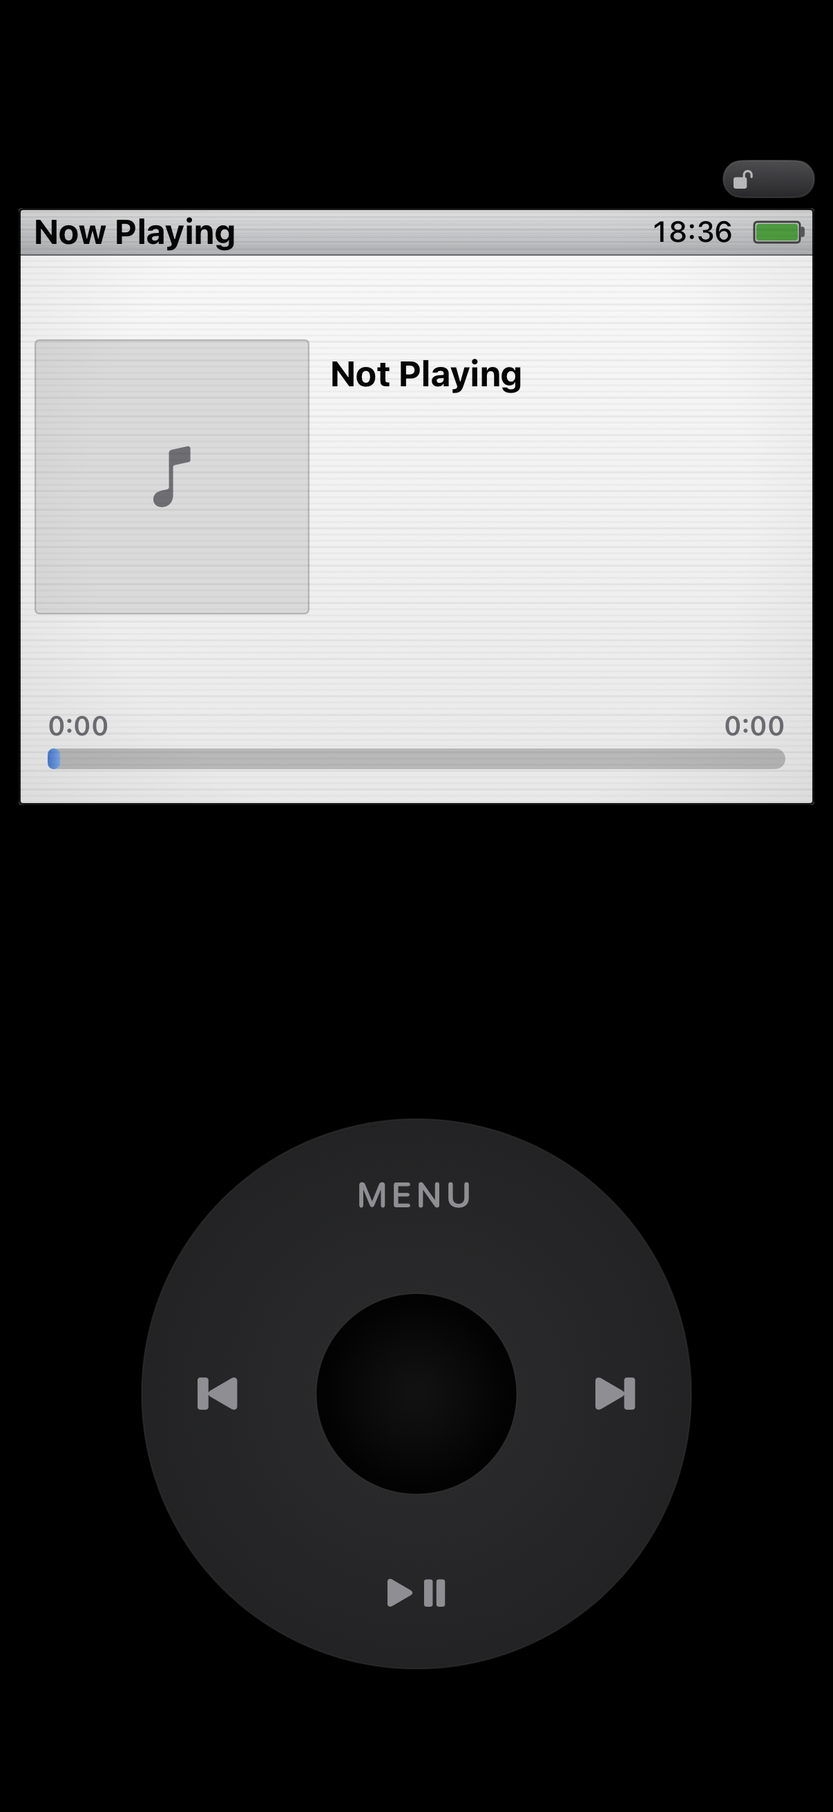
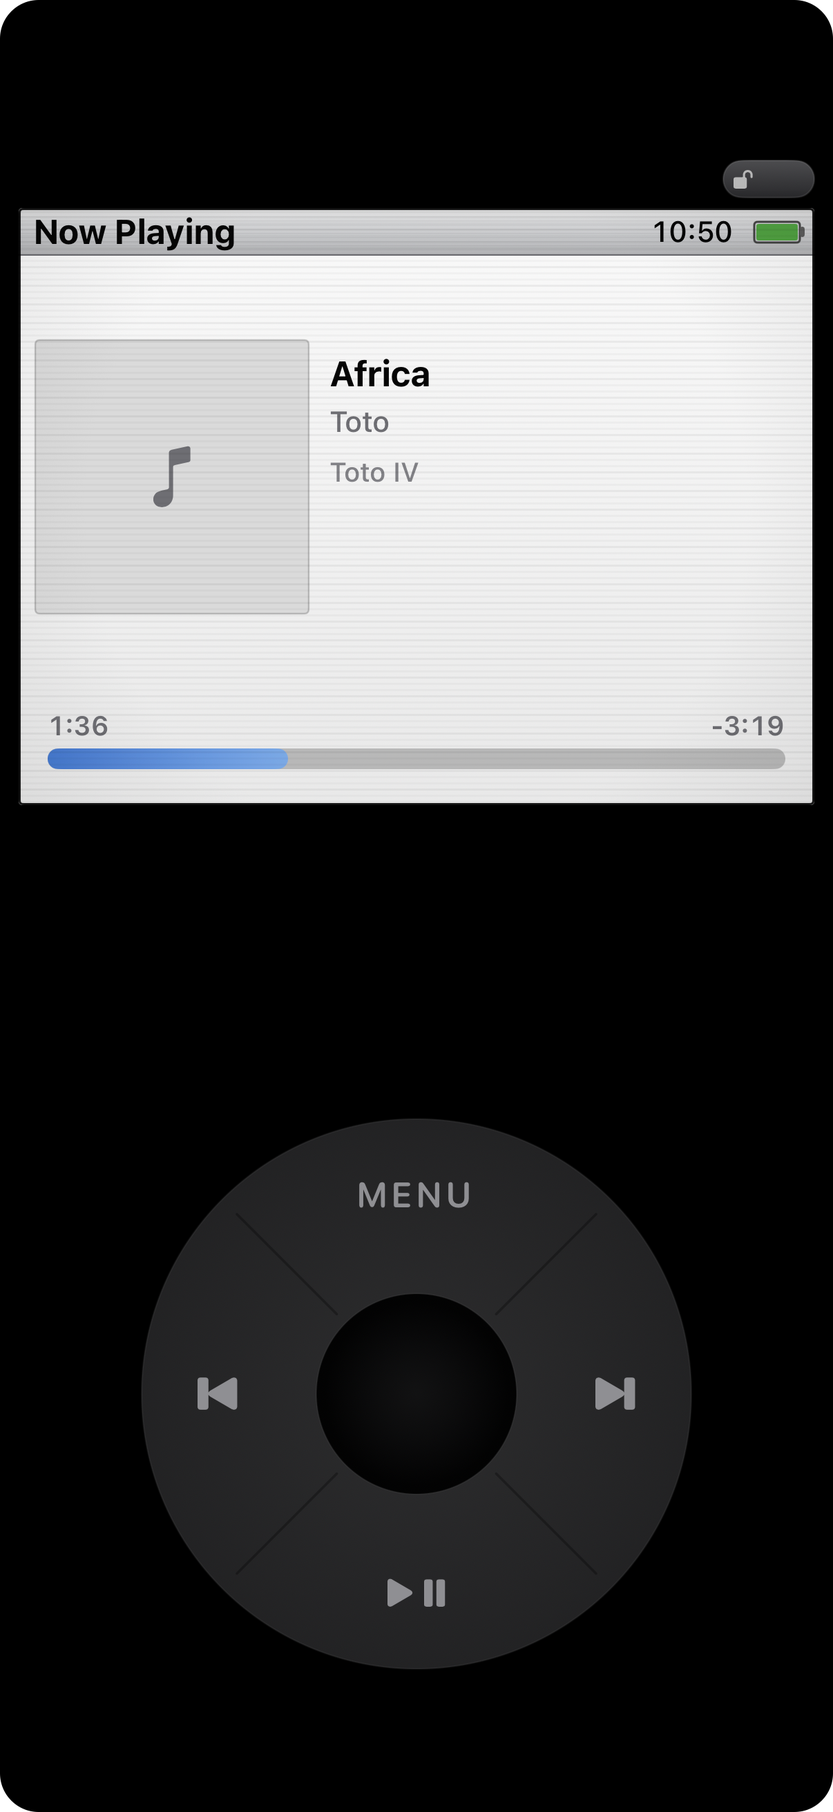
README overhaul: full screenshot set with rounded corners; QA shot hooks
- 15 fresh simulator screenshots covering home, music, songs, queue
  panel, search, alarm, timer, reader, book settings, notes, photos,
  recorder, extras, settings — corners rounded transparently via
  scripts/round_corners.swift (CoreGraphics clip, in-place PNG)
- README rewritten around the shots; feature text updated for true
  reader pagination, page-accurate progress, weekday alarms, queue,
  AirPlay; AGENTS.md records the QA hooks and the screenshot recipe
- QA-only support: fake Now Playing track (FAKE_LIBRARY preview) and
  NOW_PLAYING_PANEL / BOOK_SETTINGS panel hooks

simctl gotchas (cost a few rounds): launching over a running app
silently drops SIMCTL_CHILD_* env — terminate + sleep 2 + plain
launch; zsh does not word-split unquoted variables, so env $vars
passes one giant argument — export instead.

diff --git a/Sources/Features/Music/NowPlayingScreen.swift b/Sources/Features/Music/NowPlayingScreen.swift
@@ -22,6 +22,17 @@ struct NowPlayingScreen: View {
     private var song: Song? { player.currentSong }
     private var playlists: [Playlist] { model.music.playlists }
 
+    /// QA screenshot support (FAKE_LIBRARY): a convincing static preview
+    /// when nothing is really playing.
+    private var qaInfo: (title: String, artist: String, album: String)? {
+        song == nil && ProcessInfo.processInfo.environment["FAKE_LIBRARY"] == "1"
+            ? QASeed.previewSong : nil
+    }
+    private var qaPlayback: (time: Double, duration: Double, playing: Bool)? {
+        song == nil && ProcessInfo.processInfo.environment["FAKE_LIBRARY"] == "1"
+            ? (QASeed.previewTime, QASeed.previewDuration, true) : nil
+    }
+
     var body: some View {
         ZStack {
             VStack(spacing: 6) {
@@ -59,6 +70,13 @@ struct NowPlayingScreen: View {
             }
         }
         .onWheel { handle($0) }
+        .onAppear {
+            // QA hook: open the song-options panel for screenshots.
+            if ProcessInfo.processInfo.environment["NOW_PLAYING_PANEL"] == "1" {
+                menuSelection = 0
+                menuOpen = true
+            }
+        }
     }
 
     // MARK: Layout
@@ -72,13 +90,13 @@ struct NowPlayingScreen: View {
                 .frame(width: 132, height: 132)
 
             VStack(alignment: .leading, spacing: 3) {
-                MarqueeText(text: song?.title ?? "Not Playing",
+                MarqueeText(text: qaInfo?.title ?? song?.title ?? "Not Playing",
                             font: Theme.font(16.5, .bold),
                             color: Theme.ink)
-                MarqueeText(text: song?.artistName ?? "",
+                MarqueeText(text: qaInfo?.artist ?? song?.artistName ?? "",
                             font: Theme.font(14, .medium),
                             color: Theme.inkDim)
-                MarqueeText(text: song?.albumTitle ?? "",
+                MarqueeText(text: qaInfo?.album ?? song?.albumTitle ?? "",
                             font: Theme.font(13, .medium),
                             color: Theme.inkDim.opacity(0.85))
             }
@@ -123,13 +141,17 @@ struct NowPlayingScreen: View {
 
     private var progressBar: some View {
         GeometryReader { geo in
-            let progress = player.duration > 0 ? player.playbackTime / player.duration : 0
+            let qa = qaPlayback
+            let time = qa?.time ?? player.playbackTime
+            let duration = qa?.duration ?? player.duration
+            let playing = qa?.playing ?? player.isPlaying
+            let progress = duration > 0 ? time / duration : 0
             VStack(spacing: 3) {
                 HStack {
-                    Text(TimeFormat.mss(player.playbackTime))
+                    Text(TimeFormat.mss(time))
                         .monospacedDigit()
                     Spacer()
-                    Text(player.isPlaying ? "-\(TimeFormat.mss(max(0, player.duration - player.playbackTime)))" : TimeFormat.mss(player.duration))
+                    Text(playing ? "-\(TimeFormat.mss(max(0, duration - time)))" : TimeFormat.mss(duration))
                         .monospacedDigit()
                 }
                 .font(Theme.font(12.5, .semibold))

diff --git a/scripts/round_corners.swift b/scripts/round_corners.swift
@@ -1,0 +1,41 @@
+import Foundation
+import CoreGraphics
+import ImageIO
+
+/// Rounds the corners of the given PNGs in place (transparent corners).
+/// Usage: swift round_corners.swift <radiusPx> <file.png> [more.png ...]
+let args = CommandLine.arguments
+guard args.count >= 3, let radius = Double(args[1]), radius > 0 else {
+    print("usage: round_corners.swift <radiusPx> <file.png> ...")
+    exit(1)
+}
+
+for path in args.dropFirst() {
+    guard let src = CGImageSourceCreateWithURL(URL(fileURLWithPath: path) as CFURL, nil),
+          let image = CGImageSourceCreateImageAtIndex(src, 0, nil) else {
+        print("skip (unreadable): \(path)")
+        continue
+    }
+    let w = image.width, h = image.height
+    let ctx = CGContext(data: nil, width: w, height: h, bitsPerComponent: 8,
+                        bytesPerRow: 0, space: CGColorSpace(name: CGColorSpace.sRGB)!,
+                        bitmapInfo: CGImageAlphaInfo.premultipliedLast.rawValue)!
+    ctx.clear(CGRect(x: 0, y: 0, width: w, height: h))
+    let rect = CGRect(x: 0, y: 0, width: w, height: h)
+    let clip = CGPath(roundedRect: rect, cornerWidth: radius, cornerHeight: radius, transform: nil)
+    ctx.addPath(clip)
+    ctx.clip()
+    ctx.draw(image, in: rect)
+    guard let out = ctx.makeImage() else {
+        print("skip (context): \(path)")
+        continue
+    }
+    let dest = CGImageDestinationCreateWithURL(URL(fileURLWithPath: path) as CFURL,
+                                               "public.png" as CFString, 1, nil)!
+    CGImageDestinationAddImage(dest, out, nil)
+    guard CGImageDestinationFinalize(dest) else {
+        print("skip (write): \(path)")
+        continue
+    }
+    print("rounded: \(path)")
+}

diff --git a/Sources/Features/Reader/ReaderScreens.swift b/Sources/Features/Reader/ReaderScreens.swift
@@ -256,6 +256,14 @@ struct BookScreen: View {
                         }
                     }
                 }
+                // QA hook: open the book settings panel (screenshots).
+                if ProcessInfo.processInfo.environment["BOOK_SETTINGS"] == "1" {
+                    DispatchQueue.main.asyncAfter(deadline: .now() + 1.2) {
+                        panelIsSettings = true
+                        panelSelection = 0
+                        panelOpen = true
+                    }
+                }
             }
             // PDFKit posts selection changes; surface them in the
             // highlight bar (only one PDF view exists in the app).

diff --git a/Sources/Support/QASeed.swift b/Sources/Support/QASeed.swift
@@ -14,4 +14,11 @@ enum QASeed {
 
     static var songs: [FakeSong] = []
     static var active: Bool { !songs.isEmpty }
+
+    /// Static track info for QA screenshots of Now Playing (real playback
+    /// is impossible in the simulator — ApplicationMusicPlayer is a no-op
+    /// without a library).
+    static let previewSong = (title: "Africa", artist: "Toto", album: "Toto IV")
+    static let previewDuration = 295.0
+    static let previewTime = 96.0
 }

diff --git a/README.md b/README.md
@@ -1,11 +1,11 @@
 # iPodClassic
 
-A native iOS app that puts a full iPod Classic in your pocket: a real click wheel with haptics and tick sounds, a scanlined LCD, and the classic menus — wired to **Apple Music**, plus a camera, voice recorder, alarms, and a book reader.
+A native iOS app that puts a full iPod Classic in your pocket: a real click wheel with haptics and tick sounds, a scanlined LCD, and the classic menus — wired to **Apple Music**, plus a PDF/EPUB book reader, camera, voice recorder, weekday alarms, and Live Activities.
 
 <p align="center">
-  <img src="docs/screenshots/home.png" width="280" alt="Home menu" />
-  <img src="docs/screenshots/songs.png" width="280" alt="Songs list" />
-  <img src="docs/screenshots/nowplaying.png" width="280" alt="Now Playing" />
+  <img src="docs/screenshots/home.png" width="230" alt="Home menu" />
+  <img src="docs/screenshots/nowplaying.png" width="230" alt="Now Playing" />
+  <img src="docs/screenshots/reader.png" width="230" alt="Book reader" />
 </p>
 
 > This project started as a personal design brief ([`agent.md`](agent.md)) and was built iteratively with AI coding agents. See [Origin](#origin) for how it came together.
@@ -14,27 +14,44 @@ A native iOS app that puts a full iPod Classic in your pocket: a real click whee
 
 **The device feel**
 - Full-device UI: black (or silver) body, working Hold switch, LCD with subtle CRT scanlines and backlight illusion
-- Real click wheel: angle-based scroll ticks (15°/detent), press-and-turn, hold timers with repeat, CoreHaptics tick feedback and click sounds, dimmed wheel like real hardware
+- Real click wheel: angle-based scroll ticks (15°/detent), press-and-turn, hold timers with repeat, CoreHaptics tick feedback and click sounds, subtle sector seams and a dimmed wheel like real hardware
 - Wheel-only navigation with the classic quirks: MENU pops one level, MENU-hold goes home, PLAY-hold sleeps
 
 **Music (Apple Music via MusicKit)**
-- Artists, albums, songs, genres, playlists, recently added — synced from your Apple Music library
+- Artists, albums, songs, genres, playlists, recently added — synced from your Apple Music library, and refreshed whenever you open Music or foreground the app
 - Cover Flow with 3D flipping covers and numbered track overlay
 - Now Playing with marquee text, volume on the wheel, scrubbing, shuffle and repeat
 - Playback keeps working in the background; Now Playing follows auto-advance and manual skips even while backgrounded
 - **Queue**: hold the center button on any song row to "play next"; Now Playing → hold center → Up Next shows the whole queue and can jump to any entry
 - **Search**: ranked results (title > artist > album); hold center on a result to jump to the artist or album
+- **AirPlay** from Now Playing → hold center
+
+<p align="center">
+  <img src="docs/screenshots/songs.png" width="230" alt="Songs list" />
+  <img src="docs/screenshots/queue.png" width="230" alt="Song options / queue" />
+  <img src="docs/screenshots/search.png" width="230" alt="Search" />
+</p>
 
 **Clocks**
 - Classic alarm clock with iPhone-style weekday repeats (S M T W T F S; none selected = daily), in-app ringer with Snooze/Stop, notification-backed so it fires even when the app is closed
 - Timer and Stopwatch — each with a **Live Activity**: live countdown/elapsed time on the lock screen and Dynamic Island, timer flips to "Done" when it fires in the background
 
+<p align="center">
+  <img src="docs/screenshots/alarm.png" width="230" alt="Alarm with weekday repeats" />
+  <img src="docs/screenshots/timer.png" width="230" alt="Timer" />
+</p>
+
 **Reader**
 - Import PDFs and EPUBs from the Files app; everything stays on-device
-- EPUBs reflow with adjustable font size, serif/sans font, line spacing, margins, and page-step scrolling (wheel = exact page steps)
+- True page-based EPUB reading: pages filled with complete lines only (no half-cut text ever), one wheel tick = one page turn, adjustable font size (11–25 px), serif/sans, line spacing, margins, and screen dimming
 - PDFs render via PDFKit with continuous or one-page mode
-- Chapter navigation (titles come from the book's own table of contents), per-book position memory, thin whole-book progress line, screen dimming for night reading
-- **Highlights**: select text, tap Highlight — marks persist across sessions (text-anchored, reflow-proof) and are mirrored into a Notes file you can open in the Files app
+- Chapter navigation with titles from the book's own table of contents; per-book position memory that survives force-quits and app updates
+- Page-accurate whole-book progress bar; highlights (EPUB and PDF) persist and mirror into a Notes file; hold center for per-book settings
+
+<p align="center">
+  <img src="docs/screenshots/reader_settings.png" width="230" alt="Book settings" />
+  <img src="docs/screenshots/notes.png" width="230" alt="Notes" />
+</p>
 
 **Everything else**
 - Camera with wheel zoom, aspect-ratio switching (prev/next), lens flip (hold), wheel-driven capture — just like the real thing
@@ -43,6 +60,14 @@ A native iOS app that puts a full iPod Classic in your pocket: a real click whee
 - Notes editor with autosave; files visible in the Files app
 - Calendar, flashlight, and an About screen
 - Settings for haptics, wheel behavior, display (CRT/scanlines/dim), playback, and themes
+
+<p align="center">
+  <img src="docs/screenshots/music.png" width="230" alt="Music menu" />
+  <img src="docs/screenshots/photos.png" width="230" alt="Photos" />
+  <img src="docs/screenshots/recorder.png" width="230" alt="Voice recorder" />
+  <img src="docs/screenshots/extras.png" width="230" alt="Extras" />
+  <img src="docs/screenshots/settings.png" width="230" alt="Settings" />
+</p>
 
 ## Requirements
 
@@ -85,7 +110,7 @@ xcodebuild -project iPodClassic.xcodeproj -scheme iPodClassic \
 - **Unit tests** (`Tests/iPodClassicTests/`) cover time formatting, wheel geometry, alarm math and weekday repeats, the player model, the reader store, ZIP/EPUB extraction and parsing, and the highlight store.
 - **UI tests** (`Tests/UITests/`) drive the click wheel with real touch events and verify navigation, the alarm ringer, search, and the reader end to end.
 
-The app exposes launch-environment hooks for testing: `RESET_DEFAULTS=1`, `START_ROUTE=<route>`, `FAKE_LIBRARY=1` (seed songs, since MusicKit items can't be constructed in tests), and `ALARM_FIRE_SECONDS=N` (fires the ringer after N seconds).
+The app exposes launch-environment hooks for testing and screenshots: `RESET_DEFAULTS=1`, `START_ROUTE=<route>` (plus `readerLast` to reopen the last book), `FAKE_LIBRARY=1` (seed songs and a fake Now Playing track — MusicKit items can't be constructed in tests), `ALARM_FIRE_SECONDS=N`, `READER_IMPORT=<file>` + `READER_CHAPTER=<n>` + `READER_TICKS=<n>` for EPUB harness runs, `NOW_PLAYING_PANEL=1` / `BOOK_SETTINGS=1` to open the hold-panels. `scripts/round_corners.swift` rounds screenshot corners for the README.
 
 ## Project structure
 
@@ -98,14 +123,15 @@ Sources/
   UI/                       theme, menus, modal panels, artwork
   Features/                 one self-contained folder per feature
     Music/  Photos/  Camera/  Recorder/  Notes/  Clocks/  Extras/  Reader/  Settings/
+  Support/                  QA seed data for tests and screenshots
 Shared/                     activity attributes shared with the widget target
 Widgets/                    Live Activity widget extension
 Tests/                      unit + UI tests
-scripts/                    icon generator
+scripts/                    icon generator, screenshot post-processing
 docs/screenshots/           app screenshots
 ```
 
-Input flows one way: `ClickWheelView` → `AppModel.handle(ControlEvent)` → a Combine `controlBus` → only the top screen reacts. Every screen is a `Route` on the navigation stack; deep screens stay alive so state survives pops, exactly like drilling into menus on the real device.
+Input flows one way: `ClickWheelView` → `AppModel.handle(ControlEvent)` → a Combine `controlBus` → only the top screen reacts. Every screen is a `Route` on the navigation stack; deep screens stay alive so state survives pops, exactly like drilling into menus on the real device. More detail for contributors lives in [`AGENTS.md`](AGENTS.md).
 
 ## Origin
 
@@ -115,4 +141,5 @@ The app began as a one-page brief ([`agent.md`](agent.md)) describing the device
 
 - This is a personal hobby project and is **not affiliated with or endorsed by Apple**. iPod classic is a trademark of Apple Inc.
 - Music features require MusicKit entitlements and an Apple Music-associated Apple ID; your library data stays within Apple's standard MusicKit access on your own device.
+- Books, notes, and recordings you import live in the app's Documents folder and sync to the Files app; nothing is uploaded anywhere.
 - No license is granted yet — all rights reserved by the author until a license file is added.

diff --git a/AGENTS.md b/AGENTS.md
@@ -19,17 +19,17 @@ There is no linter; keep style consistent with surrounding code. Swift 5, iOS 18
 - `project.yml` is the source of truth for the Xcode project; the `.xcodeproj` is generated and committed. Bundle: `com.ipodclassic.app`; the signing team is configured once via `DEVELOPMENT_TEAM` in `project.yml` (never hardcode team IDs in docs).
 - `Sources/App/` — `iPodClassicApp` (@main), `AppModel` (`@Observable`; nav `stack: [Route]`, input router `handle(ControlEvent)`, service singletons), `AppSettings` (`ObservableObject`, UserDefaults-backed). `ControlEvent`/`Route` live in AppModel.swift.
 - `Sources/Device/` — `DeviceView` (body layout, Hold switch, dim/sleep overlays, alarm ringer host), `ScreenView` (LCD + title bar), `CRTOverlay`, `ScreenRouter` (renders the nav stack; deep routes stay alive so state survives pops; top route owns wheel input; `title(for:)` maps routes to title-bar strings).
-- `Sources/Wheel/` — `ClickWheelView` + `WheelCoordinator` (angle-delta ticks at 15°/detent, button quadrants vs diagonal scroll sectors, press→scroll conversion, hold timers with repeat), `WheelHaptics` (CoreHaptics transients + UIImpact), `TickSounds` (AudioServices; never touches AVAudioSession), `WheelFeedback` (applies haptics/sound settings).
+- `Sources/Wheel/` — `ClickWheelView` + `WheelCoordinator` (angle-delta ticks at 15°/detent, button quadrants vs diagonal scroll sectors, press→scroll conversion, hold timers with repeat), `WheelHaptics` (CoreHaptics transients + UIImpact), `TickSounds` (AudioServices; never touches AVAudioSession), `WheelFeedback` (applies haptics/sound settings). The wheel face draws subtle dark-grey diagonal seams between the four button sectors (no press highlight).
 - `Sources/UI/` — `Theme` (colors/fonts: LCD paper, brushed-metal bar, blue selection gradient, dimmed wheel), `MenuComponents` (`MenuItem`, `MenuList`/`MenuRow` incl. thumbnails + subtitles, `SplitMenuLayout`, `ModalPanel`, `moveListSelection` honoring Infinite Tick / Rubber Band Tick).
 - `Sources/Features/` one folder per feature, each self-contained (model + screens):
-  - `Music/` — MusicKit library fetch (cached in `MusicService`), `PlayerModel` (ApplicationMusicPlayer, transport, queue bookkeeping synced from `player.queue.currentEntry`, volume, 0.5s state polling), list screens (hold center on a song row = add to queue), `AlbumDetailScreen` (View in Cover Flow / Shuffle / tracks), `CoverFlowScreen` (3D covers + numbered track overlay), `NowPlayingScreen` (wheel = volume; hold center = song options incl. Up Next queue list with jump-to-entry).
+  - `Music/` — MusicKit library fetch (cached in `MusicService`), `PlayerModel` (ApplicationMusicPlayer, transport, queue bookkeeping synced from `player.queue.currentEntry`, volume, 0.5s state polling), list screens (hold center on a song row = add to queue), `AlbumDetailScreen` (View in Cover Flow / Shuffle / tracks), `CoverFlowScreen` (3D covers + numbered track overlay), `NowPlayingScreen` (wheel = volume; hold center = song options incl. Up Next queue list with jump-to-entry and an AirPlay route-picker row).
   - `Extras/` (in `Features/Extras/ExtrasScreens.swift`) — Extras menu, Flashlight (torch), Calendar, `MusicSearchScreen` (ranked song search; hold center → Go to Artist / Go to Album).
   - `Photos/` — `PhotoLibraryModel` (PHFetchResult + thumbnail cache), grid/detail screens.
   - `Camera/` — `CameraModel` (AVCaptureSession on serial queue, zoom, lens switch, capture delegate), `CameraScreen` (wheel zoom, prev/next = aspect ratio, hold = flip lens, center = capture, MENU = options panel; claims transport buttons via `model.transportClaimedByScreen`).
   - `Recorder/` — `RecorderModel` (.m4a in Documents/Recordings, pause/resume, background-safe, interruption handling, playback), recorder/list/detail screens with share sheet.
   - `Notes/` — `NotesStore` (.txt in Documents/Notes, visible in Files app), list + editor (touch keyboard, debounced autosave, MENU writes).
   - `Clocks/` — `AlarmStore` (single classic alarm with weekday repeats; nothing selected = daily → one repeating `UNCalendarNotificationTrigger` per selected day), `AlarmNotifications` (delegate → in-app ringer), `TimerModel`/`StopwatchModel`, `RingerManager` (in-app loop + overlay), `AlarmScreen` (wheel edits hour/minute/AM-PM, day cursor; center advances/toggles — wheel past the day-row edges changes segment), `TimerScreen`, `StopwatchScreen`.
-  - `Reader/` — PDF/EPUB reader. `ReaderStore` (registry in Documents/Books + per-book settings/position persisted in UserDefaults), `EpubContainer` (custom ZIP extractor over Apple `Compression` + OPF/spine/TOC parsing — chapter titles from toc.ncx/EPUB3 nav, then `<title>`/`<h1>`), `ReaderHighlights` (selection capture + persistent text-anchored marks + `- "text"` notes mirror), `ReaderScreens` (`ReaderScreen` list w/ Files-app import + hold-to-delete, `BookScreen`: wheel = page-step scroll, center = chapters, hold center = book settings (font size/family/line spacing/margins/scroll step/screen dim/PDF view mode), prev/next = chapter or page; thin whole-book progress bar; PDF highlights are native `PDFAnnotation`s written into the PDF file).
+  - `Reader/` — PDF/EPUB reader. `ReaderStore` (registry in Documents/Books + per-book settings/position persisted in UserDefaults), `EpubContainer` (custom ZIP extractor over Apple `Compression` + OPF/spine/TOC parsing — chapter titles from toc.ncx/EPUB3 nav, then `<title>`/`<h1>`), `ReaderHighlights` (selection capture + persistent text-anchored marks + `- "text"` notes mirror), `ReaderScreens` (`ReaderScreen` list w/ Files-app import + hold-to-delete, `BookScreen`: true column pagination — one tick = one page, pages hold complete lines only; center = chapters, hold center = book settings (font 11–25px/family/line spacing/margins/screen dim/PDF view mode), prev/next = chapter or page; page-accurate whole-book progress bar (chapter page counts measured offscreen by `EpubPageMeasurer` + live in-chapter fraction); position autosaves every 6s + on background; PDF highlights are native `PDFAnnotation`s written into the PDF file; injects `width=device-width` viewport — books without one lay out at 980px).
   - `Settings/` — value-cycling rows via `ValueSettingsScreen`; Apple Music connect, Clickwheel, Display (CRT/scanlines/backlight illusion/dim), Playback, About.
 - Input flow: `ClickWheelView` → `AppModel.handle` → (hold switch / sleep / global transport interception) → `controlBus` (Combine) → only the top screen reacts via `.onReceive`.
 - Global transport: prev/next/play/pause always control music (like a real iPod) except when a screen claims them (camera). MENU-hold goes home; PLAY-hold sleeps.
@@ -44,7 +44,8 @@ There is no linter; keep style consistent with surrounding code. Swift 5, iOS 18
 ## Tests
 
 - `Tests/iPodClassicTests/` — unit tests (no host app): `TimeFormat`, `WheelCoordinator` geometry, alarm hour24 + repeat labels/bitmask, `PlayerModel` volume, `ReaderStore` import/remove/old-format decode, ZIP extraction (stored + deflate + traversal guard), EPUB spine/TOC/title parsing, `HighlightStore`.
-- `Tests/UITests/` — real-gesture E2E over XCUI (`WheelTapTests`, `E2ETests`): wheel drag → tick, center tap, hold timers, navigation depth, alarm ringer fire/dismiss, reader render, songs hold. Launch hooks via `launchEnvironment`: `RESET_DEFAULTS=1`, `START_ROUTE=<route>`, `FAKE_LIBRARY=1` (QA seed songs — MusicKit items can't be constructed in tests), `ALARM_FIRE_SECONDS=N`.
+- `Tests/UITests/` — real-gesture E2E over XCUI (`WheelTapTests`, `E2ETests`): wheel drag → tick, center tap, hold timers, navigation depth, alarm ringer fire/dismiss, reader render, songs hold. Launch hooks via `launchEnvironment`: `RESET_DEFAULTS=1`, `START_ROUTE=<route>` (or `readerLast` = reopen last book), `FAKE_LIBRARY=1` (QA seed songs + fake Now Playing track — MusicKit items can't be constructed in tests), `ALARM_FIRE_SECONDS=N`, reader harness: `READER_IMPORT=<file>` / `READER_CHAPTER=<n>` / `READER_TICKS=<n>`, panel shots: `NOW_PLAYING_PANEL=1` / `BOOK_SETTINGS=1`.
+- Screenshots for the README are taken in the simulator with those hooks (`simctl launch` + `simctl io screenshot`), then rounded with `swift scripts/round_corners.swift 56 <pngs>`. gotcha: launching over a running app silently DROPS the `SIMCTL_CHILD_*` env — always `simctl terminate` + `sleep 2` + plain `simctl launch`, and in zsh never pass envs through an unquoted variable (`env $vars` doesn't word-split) — use `export` or inline assignments.
 
 ## Conventions & gotchas
 
